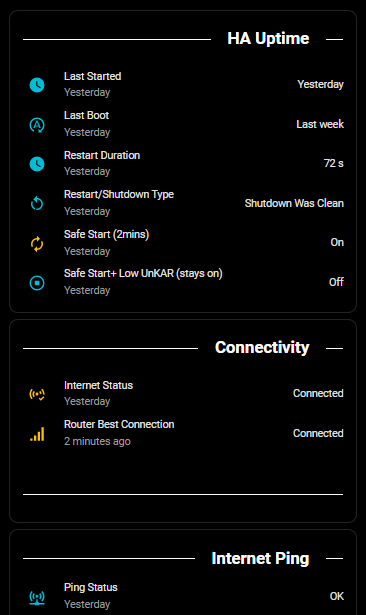
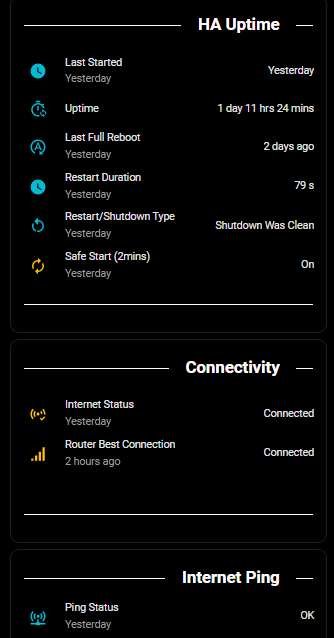
v1.3.3-dev10 More Screenshots

diff --git a/README.md b/README.md
@@ -39,9 +39,13 @@ To ensure all "Pure Black" features (like custom scrollbars and border removals)
 
 ![Black with Green Preview](.github/images/vdbt_preview_theme_select_green.png)
 
-![Black with Cyan Preview](.github/images/vdbt_preview_sensors_cyan.png)
+| Cyan | Fuchsia | Silver |
+| :-: | :-: | :-: |
+| ![Cyan](.github/images/vdbt_preview_sensors_cyan.png) | ![Fuchsia](.github/images/vdbt_preview_sensors_fuchsia.png) | ![Silver](.github/images/vdbt_preview_sensors_silver.png) |
 
-![Black with Orange Preview](.github/images/vdbt_preview_home_orange.png)
+| Indigo | Orange | Red |
+| :-: | :-: | :-: |
+| ![Indigo](.github/images/vdbt_preview_sensors_indigo.png) | ![Orange](.github/images/vdbt_preview_sensors_orange.png) | ![Red](.github/images/vdbt_preview_sensors_red.png) |
 
 ## ✨ Installation
 

diff --git a/CHANGELOG.md b/CHANGELOG.md
@@ -2,7 +2,7 @@
 
 All notable changes to this project will be documented in this file.
 
-## [v1.3.3-dev8] - Now
+## [v1.3.3-dev10] - Now
 
 ### Added
 
